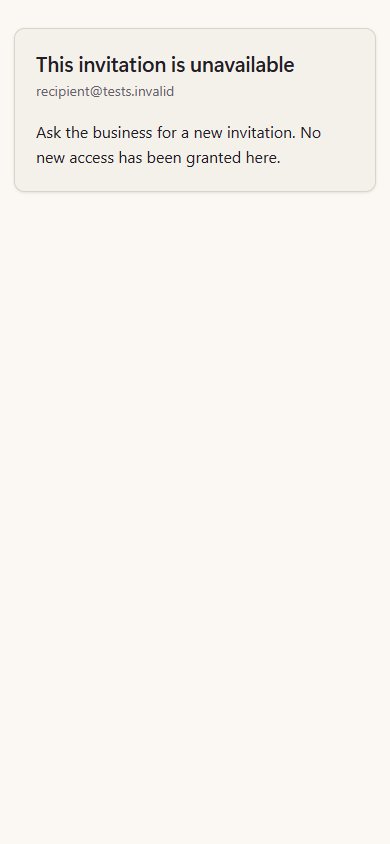
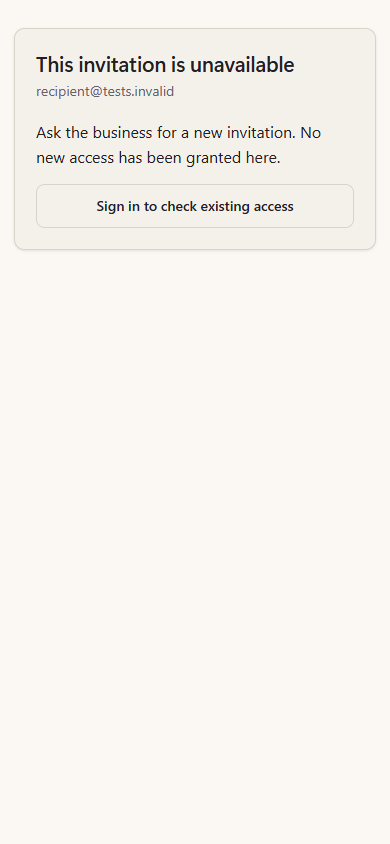
fix(portal): recover returning recipients and expired invitation sessions
Disposition review 6217197716 with fresh token reads, existing-login-only recovery and bounded explicit sign-out. Preserve native identity and acceptance authority.

Visible-Flow-Impact: yes

Changed region(s): [[0.2462, 0.2156, 0.7692, 0.2773], [0.8923, 0.2156, 0.9231, 0.2464], [0.0923, 0.2156, 0.1231, 0.2464]]

diff --git a/src/pages/ConsumerInvitation.tsx b/src/pages/ConsumerInvitation.tsx
@@ -56,6 +56,13 @@ export function ConsumerInvitation({token,info}:{token:string;info:ConsumerInvit
     if(!value)throw new Error("status_unavailable");
     return value;
   },[token,info.tenant_id]);
+  const validInvitation=useCallback(async()=>{
+    const peek=await bounded(supabase.rpc("peek_tenant_invite",{_token:token}));
+    if(peek.error)throw new Error("invitation_unavailable");
+    const fresh=Array.isArray(peek.data)?peek.data[0]:peek.data;
+    return !!fresh&&fresh.is_valid&&fresh.kind==="consumer"&&fresh.tenant_id===info.tenant_id
+      &&fresh.invited_email?.trim().toLowerCase()===email;
+  },[token,info.tenant_id,email]);
   const refresh=useCallback(async()=>{
     const n=++life.current.sequence;
     setBusy(true);setReceipt(null);setActor(null);setNotice("");setPhase("loading");
@@ -69,13 +76,14 @@ export function ConsumerInvitation({token,info}:{token:string;info:ConsumerInvit
         if(confirmation.error||confirmation.data.user?.id!==user.id)throw new Error("session_changed");
         setActor(user);
         if(saved){setReceipt(saved);setPhase("accepted");return;}
-        if(!info.is_valid){setPhase("invalid");return;}
+        const valid=await validInvitation();if(!current(n))return;
+        if(!valid){setPhase("invalid");return;}
         if(user.email?.trim().toLowerCase()!==email){setPhase("wrong");return;}
         setPhase(user.email_confirmed_at?"ready":"verify");
-      }else setPhase(info.is_valid&&email?"choice":"invalid");
+      }else{const valid=await validInvitation();if(current(n))setPhase(valid&&email?"choice":"invalid");}
     }catch{if(current(n)){setPhase("error");setNotice("We couldn’t check your session or invitation. Try again when connected.");}}
     finally{if(current(n))setBusy(false);}
-  },[email,info.is_valid,status]);
+  },[email,status,validInvitation]);
   useEffect(()=>{
     const lifetime=life.current;
     lifetime.alive=true;
@@ -91,7 +99,7 @@ export function ConsumerInvitation({token,info}:{token:string;info:ConsumerInvit
 
   const authenticate=async()=>{
     if(life.current.working)return;
-    if(!info.is_valid||!email){setPhase("invalid");return;}
+    if(!email){setPhase("invalid");return;}
     if(password.length<8){setNotice("Enter a password with at least 8 characters.");return;}
     if(phase==="create"&&!terms){setNotice("Agree to the Terms and Privacy Policy to create your account.");return;}
     const n=++life.current.sequence,creating=phase==="create";
@@ -99,10 +107,9 @@ export function ConsumerInvitation({token,info}:{token:string;info:ConsumerInvit
     try{
       // Revalidate the token immediately before identity creation. This does not
       // consume it or trust editable user metadata for membership/provisioning.
-      const peek=await bounded(supabase.rpc("peek_tenant_invite",{_token:token}));if(!current(n))return;
-      const fresh=Array.isArray(peek.data)?peek.data[0]:peek.data;
-      if(peek.error||!fresh||!fresh.is_valid||fresh.kind!=="consumer"||fresh.tenant_id!==info.tenant_id
-        ||fresh.invited_email?.trim().toLowerCase()!==email){setPhase("invalid");return;}
+      // Existing login is also permitted for a consumed link: it can recover
+      // already-accepted access, but cannot create or consume a new invitation.
+      if(creating){const valid=await validInvitation();if(!current(n))return;if(!valid){setPhase("invalid");return;}}
       const result=creating
         ?await bounded(supabase.auth.signUp({email,password,options:{emailRedirectTo:`${window.location.origin}/join/${encodeURIComponent(token)}`}}))
         :await bounded(supabase.auth.signInWithPassword({email,password}));
@@ -151,9 +158,20 @@ export function ConsumerInvitation({token,info}:{token:string;info:ConsumerInvit
     if(busy||life.current.working)return;
     const n=++life.current.sequence;setBusy(true);life.current.working=true;
     try{
+      const valid=await validInvitation();if(!current(n))return;if(!valid){setPhase("invalid");return;}
       const result=await bounded(supabase.auth.resend({type:"signup",email,options:{emailRedirectTo:`${window.location.origin}/join/${encodeURIComponent(token)}`}}));
       if(current(n))setNotice(result.error?"Confirmation email could not be requested. Wait a moment, then try again.":"Confirmation email requested. Check your inbox and spam folder; delivery is not yet confirmed.");
     }catch{if(current(n))setNotice("We couldn’t confirm the email request. Check your inbox before requesting another.");}
+    finally{life.current.working=false;if(current(n))setBusy(false);}
+  };
+  const switchAccount=async()=>{
+    if(life.current.working)return;
+    const n=++life.current.sequence;life.current.working=true;setBusy(true);setNotice("");setPassword("");
+    try{
+      const result=await bounded(supabase.auth.signOut({scope:"local"}));if(!current(n))return;
+      if(result.error)throw new Error("signout_unconfirmed");
+      await refresh();
+    }catch{if(current(n))setNotice("Sign-out could not be confirmed. Try again when connected.");}
     finally{life.current.working=false;if(current(n))setBusy(false);}
   };
   const color=info.brand?.primary_color||"#150C31",style={backgroundColor:color,color:readableTextOn(color)};
@@ -175,15 +193,15 @@ export function ConsumerInvitation({token,info}:{token:string;info:ConsumerInvit
           <div className="space-y-2"><Label htmlFor="customer-password">Password</Label><div className="relative"><Input id="customer-password" type={showPassword?"text":"password"} autoComplete={phase==="create"?"new-password":"current-password"} value={password} onChange={e=>setPassword(e.target.value)} minLength={8} required disabled={busy} className="pr-12"/><button type="button" aria-label={showPassword?"Hide password":"Show password"} onClick={()=>setShowPassword(v=>!v)} className="absolute right-0 top-0 px-3" disabled={busy}>{showPassword?<EyeOff aria-hidden="true" className="size-4"/>:<Eye aria-hidden="true" className="size-4"/>}</button></div></div>
           {phase==="create"&&<div className="flex gap-3 items-start min-h-11"><Checkbox id="customer-terms" aria-label="I agree to the Terms and Privacy Policy" className="size-6 shrink-0" checked={terms} onCheckedChange={v=>setTerms(v===true)} disabled={busy}/><Label htmlFor="customer-terms" className="text-sm leading-relaxed">I agree to the <Link className="underline" to="/legal/terms" target="_blank" rel="noreferrer">Terms</Link> and <Link className="underline" to="/legal/privacy" target="_blank" rel="noreferrer">Privacy Policy</Link>.</Label></div>}
           <Button type="submit" disabled={busy} className="w-full" style={style}>{busy?"Please wait…":phase==="create"?"Create account":"Sign in to continue"}</Button>
-          <Button type="button" variant="ghost" disabled={busy} className="w-full" onClick={()=>{setPassword("");setPhase("choice");setNotice("");}}>Back</Button>
+          <Button type="button" variant="ghost" disabled={busy} className="w-full" onClick={()=>{setPassword("");void refresh();}}>Back</Button>
           {phase==="signin"&&<p className="text-sm"><Link className="underline" to={`/auth?mode=login&next=${encodeURIComponent(`/join/${token}`)}`}>Need help signing in?</Link></p>}
         </form>}
         {phase==="verify"&&<><p>Confirm your email, then return to this invitation. Your customer access starts after you accept.</p><Button style={style} disabled={busy} className="w-full" onClick={()=>void refresh()}>I have confirmed my email</Button><Button variant="outline" disabled={busy} className="w-full" onClick={()=>void resend()}>Resend confirmation email</Button><Button variant="ghost" disabled={busy} className="w-full" onClick={()=>{setPhase("signin");setNotice("");}}>Sign in</Button></>}
         {phase==="ready"&&<><p>Accept to connect your customer account with {info.tenant_name} and open your authorized portal.</p><Button style={style} disabled={busy} className="w-full" onClick={()=>void accept()}>{busy?"Accepting…":"Accept invitation"}</Button></>}
         {phase==="accepted"&&<><p>Your customer relationship is confirmed. Continue to your saved information.</p><Button style={style} disabled={busy} className="w-full" onClick={()=>void continueToPortal()}>{busy?"Checking portal…":"Continue to your portal"}</Button></>}
-        {phase==="wrong"&&<><p>This invitation is for {email}. You are signed in as {actor?.email}.</p><Button variant="outline" disabled={busy} className="w-full" onClick={async()=>{if(life.current.working)return;setBusy(true);const r=await supabase.auth.signOut({scope:"local"});if(r.error){setNotice("Sign-out could not be confirmed. Try again.");setBusy(false);}else void refresh();}}>Sign out of this session</Button></>}
+        {phase==="wrong"&&<><p>This invitation is for {email}. You are signed in as {actor?.email}.</p><Button variant="outline" disabled={busy} className="w-full" onClick={()=>void switchAccount()}>Sign out of this session</Button></>}
         {(phase==="unknown"||phase==="error")&&<Button variant="outline" disabled={busy} className="w-full" onClick={()=>void refresh()}>{phase==="unknown"?"Check acceptance":"Try again"}</Button>}
-        {phase==="invalid"&&<p>Ask the business for a new invitation. No new access has been granted here.</p>}
+        {phase==="invalid"&&<><p>Ask the business for a new invitation. No new access has been granted here.</p>{email&&<Button variant="outline" className="w-full" onClick={()=>{setPhase("signin");setNotice("");}}>Sign in to check existing access</Button>}</>}
       </CardContent>
     </Card>
   </main>;

diff --git a/src/pages/JoinWorkspace.customer-entry.test.tsx b/src/pages/JoinWorkspace.customer-entry.test.tsx
@@ -102,3 +102,35 @@ it("a stale invitation cannot start signup",async()=>{
   f.rpc.mockImplementation(async(name:string,...args:unknown[])=>{const r=await original(name,...args);if(name==="peek_tenant_invite")r.data[0].is_valid=false;return r;});
   await click("Create account");expect(host.textContent).toContain("This invitation is unavailable");expect(f.signUp).not.toHaveBeenCalled();
 });
+it("a signed-out returning recipient can sign in through a consumed link and recover existing access",async()=>{
+  const original=f.rpc.getMockImplementation()!;
+  f.rpc.mockImplementation(async(name:string,...args:unknown[])=>{
+    if(name==="client_portal_invite_status")return{data:f.user?{tenant_id:tenant,client_id:"contact-a",accepted_at:"2026-01-01",status:"accepted"}:null,error:null};
+    const r=await original(name,...args);if(name==="peek_tenant_invite")r.data[0].is_valid=false;return r;
+  });
+  f.signIn.mockImplementation(async()=>{f.user={id:"subject",email:"recipient@tests.invalid",email_confirmed_at:"2026-01-01"};return{data:{user:f.user},error:null};});
+  await render();await click("Sign in to check existing access");await input('#customer-password','existing-password');await click("Sign in to continue");
+  expect(host.textContent).toContain("Your invitation is accepted");expect(f.signUp).not.toHaveBeenCalled();
+  expect(f.rpc.mock.calls.some(([name])=>name==="accept_tenant_invite")).toBe(false);
+});
+it("an invitation revoked after page load becomes unavailable on recovery",async()=>{
+  f.user={id:"subject",email:"recipient@tests.invalid",email_confirmed_at:"2026-01-01"};
+  let revoked=false;const original=f.rpc.getMockImplementation()!;
+  f.rpc.mockImplementation(async(name:string,...args:unknown[])=>{
+    if(name==="accept_tenant_invite"){revoked=true;return{data:null,error:{code:"42501"}};}
+    const r=await original(name,...args);if(name==="peek_tenant_invite")r.data[0].is_valid=!revoked;return r;
+  });
+  await render();await click("Accept invitation");await click("Check acceptance");
+  expect(host.textContent).toContain("This invitation is unavailable");expect(button("Accept invitation")).toBeUndefined();
+});
+it("a failed explicit sign-out leaves a retryable account boundary",async()=>{
+  f.user={id:"other",email:"other@tests.invalid",email_confirmed_at:"2026-01-01"};f.signOut.mockRejectedValue(Error("offline"));
+  await render();await click("Sign out of this session");
+  expect(host.textContent).toContain("Sign-out could not be confirmed");expect(button("Sign out of this session").disabled).toBe(false);
+});
+it("Back from consumed-link sign-in does not reopen the create-account choice",async()=>{
+  const original=f.rpc.getMockImplementation()!;
+  f.rpc.mockImplementation(async(name:string,...args:unknown[])=>{const r=await original(name,...args);if(name==="peek_tenant_invite")r.data[0].is_valid=false;return r;});
+  await render();await click("Sign in to check existing access");await click("Back");
+  expect(button("Create your account")).toBeUndefined();expect(button("Sign in to check existing access")).toBeTruthy();
+});

diff --git a/supabase/functions/paige-mcp/index.ts b/supabase/functions/paige-mcp/index.ts
@@ -4673,14 +4673,14 @@ mcp.tool("me_get_profile", {
 });
 
 mcp.tool("me_update_profile", {
-  description: "Update the calling user's own client profile. Only safe self-editable fields are allowed: first_name, last_name, phone, entity_name, current_notes, funding_goal_amount. Cannot change lifecycle_stage, assigned coach, tier, or status.",
+  description: "Update your own contact names, company name and primary phone. Internal CRM notes, commercial fields, lifecycle, assignments, tier and access status are not customer-editable.",
   inputSchema: z.object({
     first_name: z.string().optional(),
     last_name: z.string().optional(),
     phone: z.string().optional(),
     entity_name: z.string().optional().describe("Their company / business name."),
-    current_notes: z.string().optional().describe("Free-form notes the user wants Paige to remember."),
-    funding_goal_amount: z.number().optional(),
+    current_notes: z.string().optional().describe("Internal field; customer updates are refused."),
+    funding_goal_amount: z.number().optional().describe("Commercial field; customer updates are refused."),
   }),
   handler: async (patch) => {
     const me = await actorClient();

diff --git a/docs/evidence/ui-delivery/e09-customer-invitation-entry.md b/docs/evidence/ui-delivery/e09-customer-invitation-entry.md
@@ -27,7 +27,7 @@ ACCEPTANCE_CRITERIA: legitimate recipient creates/signs in, confirms, explicitly
 MOTION_PURPOSE: NONE: no added product motion; existing loading feedback honors reduced motion.
 PROTECTED_SEAMS: affected identity/account choice, client/tenant isolation, canonical writes/readback, audit/privacy and customer form accessibility are tested. Solo billing/provisioning preserved by its existing suite. Chat execution/admission/approval, stream/history/pop-out, Live state, Browser/Vault, provider sender/status, scheduler, payment and owner shell geometry are not modified. Existing private-context suppression is a customer projection change, not execution activation.
 
-INTERNAL_BUILD_IDENTITY: c70a4b3bbb4fbd281262a553371fea838d62fde1; exact source candidate; deployment=NOT_DEPLOYED; environment=development; migrations=PROOF_OWED(20271108120000_e09_customer_invitation_entry); edge=PROOF_OWED(paige-mcp and finalize-agreement); evidence=this record and exact-head PR receipts
+INTERNAL_BUILD_IDENTITY: 5696271a227b704ed623737736e0941f24467e87; reviewed source lineage, recovery repairs tracked by the final PR Git head; deployment=NOT_DEPLOYED; environment=development; migrations=PROOF_OWED(20271108120000_e09_customer_invitation_entry); edge=PROOF_OWED(paige-mcp and finalize-agreement); evidence=this record and exact-head PR receipts
 RELEASE_CHANNEL: development: source candidate, production only after documented review, exact-head CI and native migration/Edge/web readback.
 RELEASE_CLASSIFICATION: internal-only: repair of the owner-approved customer entry flow; full Portal completion is not claimed.
 CUSTOMER_RELEASE_IDENTITY: none: no new version or announcement inferred from a repair PR.
@@ -72,3 +72,5 @@ Service-agreement content from the browser was previously unbound to the tenant'
 ## Review and release
 
 Independent Review is mandatory. A separate sequential AUTHOR-REVIEW / LOWER ASSURANCE of the exact final head is still required and will be published in the PR; no third-party assurance is claimed. Final CI, migration/Edge/web deployment and actual user testing must be reported as separate states. No ordinary release waits for owner manual visual inspection.
+
+Review receipt6217197716 on5696271a2 found returning-recipient recovery, stale validity, unbounded explicit sign-out and inaccurate MCP wording. The consolidated repair adds existing-login-only recovery for consumed links, fresh validity reads before readiness/signup/resend, bounded sign-out and current field descriptions. Back returns through the same fresh check. New cases cover these paths;37 affected tests and the final19 entry/MCP tests pass. Eleven actual-source browser cases were re-executed with refreshed source hashes; no new aesthetic redesign or real Auth/provider effects. Final exact-head recheck remains in the PR.
